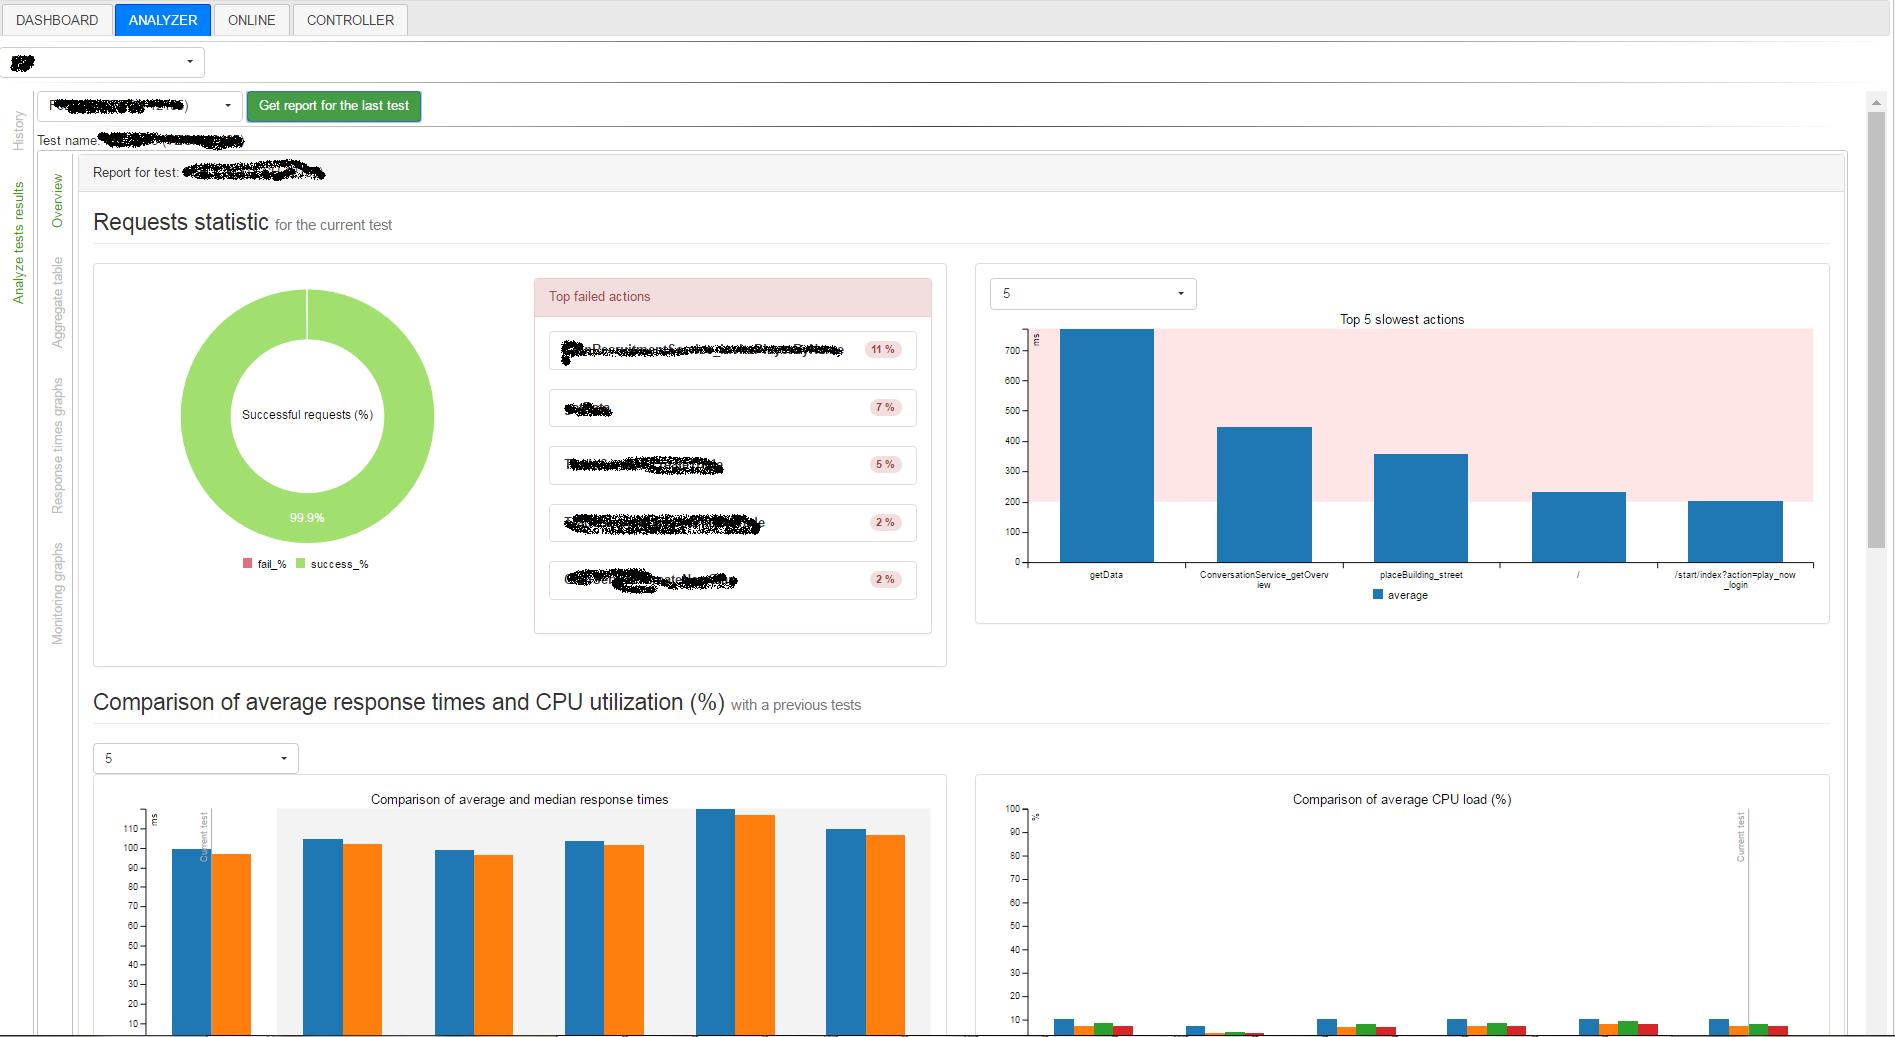
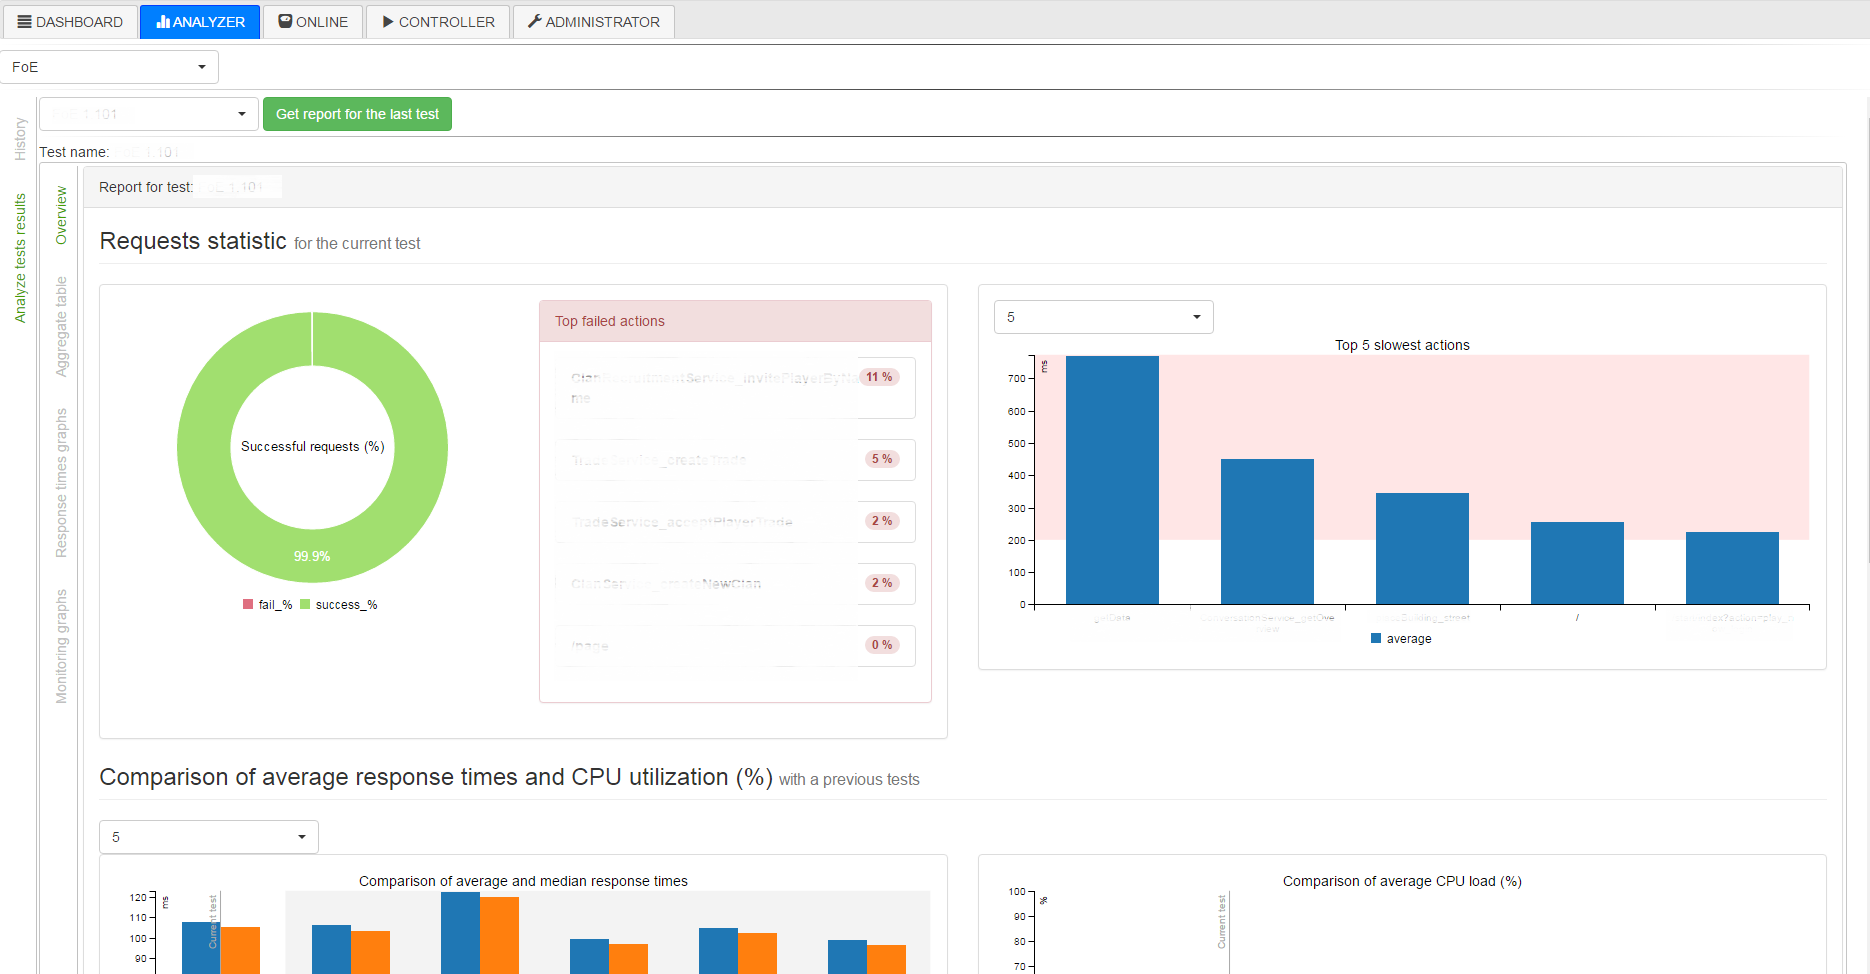
updated readme

diff --git a/README.md b/README.md
@@ -1,25 +1,29 @@
 # Description
-JMeter Control center.
+JMeter Control Center (or `jltom`)
 
-Online web-application for CI Load testing with JMeter. Replacement for Jenkins + Plugins + Jmeter combination.  
-Now it is possible to run, analyze JMeter test results (incl. compare different results) and monitoring the running tests which were started in console mode (incl. distribution testing). 
+Online web-application for "continuous integration" (CI) Load testing with JMeter.  
+A central system for launching (incl. distribution testing), monitoring tests, creating reports and for a comparative analysis between different load tests provided with Jmeter (http://jmeter.apache.org/)
+Replacement for Jenkins + Plugins + Jmeter combination, but could be also used in integration with Jenkins CI. 
 
-Could be used in integration with Jenkins CI. In post-job script need to include script datagenerator_linux.py which will populate database with all necessary data.
 Consist of several modules:
 
 1. Analyzer - build reports, analyze results and compare results with another.
 2. Online - online monitoring for running tests
 3. Controller - central part for configuration and starting tests
+4. Administrator - configurator for different parameters
 
 
-# [ANALYZER] Create dynamic report for tests
+# [ANALYZER] 
+Get a performance trends for all test results
+![alt tag](https://github.com/v0devil/jltom/blob/master/pics/trend.png)
+
+Create dynamic report for the tests
 ![alt tag](https://github.com/v0devil/jltom/blob/master/pics/report.png)
 
-# [ANALYZER] Test results
 Get fancy good-readable aggregate table for the test with graphs for every executed action:
 ![alt tag](https://github.com/v0devil/jltom/blob/master/pics/aggregate.png)
 
-# [ANALYZER] Get response times, rps, errors data from test:
+Get response times, rps, errors data from test:
 ![alt tag](https://github.com/v0devil/jltom/blob/master/pics/graphs.png)
 
 # [ONLINE] Online test monitoring
@@ -30,36 +34,52 @@ Provides online test monitoring, reads .csv result files and builds graphs onlin
 Configure and start tests, using normal or distribution testing. Possible to configure and run pre- and post-test bash-scripts (currently on development) and additional JMeter test-plan parameters:
 ![alt tag](https://github.com/v0devil/jltom/blob/master/pics/controller_1.png)
 
-# JLTOM 
-Jmeter Load Test Online Monitor
 
-Written on python.
+The application comes with:
+* [c3.js] (http://c3js.org)
+* [jQuery](http://jquery.com/)
+* [Twitter Bootstrap](http://getbootstrap.com/)
+* [Highlights.js](https://highlightjs.org/)
 
-Requirements
+Current `requirements.txt` file is:
 
+```
 python=2.7
-
 django_debug_toolbar==1.7
-
 Django==1.10.5
-
 matplotlib==1.4.3
-
 numpy==1.10.0
-
 pandas==0.17.0
-
 psutil==5.2.1
-
 matplotlib==1.4.3
-
 SQLAlchemy==1.1.3
+```
 
+For data storage uses *Postgres (9.5+)*.
+Supports Linux and Windows.
 
-Uses c3/j3 graphs 
-For data storage uses Postgres.
+## Installation
+### 1. Download
+You have to download project files in your folder:
+    $ cd /home/
+    $ git clone git://github.com/v0devil/JMeter-Control-Center.git
 
-# Start
+### 2. Requirements
+Right there, you will find the *requirements.txt* file that has all tools, django. To install them, simply type:
 
+`$ pip install -r requirements.txt`
+
+### 3. Initialize the database
+First set the database engine (only PostgreSQL 9.5+) in your settings files; `jltom/settings.py` Of course, remember to install necessary database driver for your engine. Then define your credentials as well.
+Then execute:
+
+`./manage.py makemigrations`
+`./manage.py migrate`
+
+### 4. Go!
 nohup python manage.py runserver 8888 &
 
+### 5. Jenkins
+
+It`s possible to use this application in cooperation with Jenkins. (if to start with Yandex-tank https://github.com/yandex/yandex-tank)
+In post-job script need to include script `datagenerator_linux.py` which will populate database with all necessary data after executed test.
